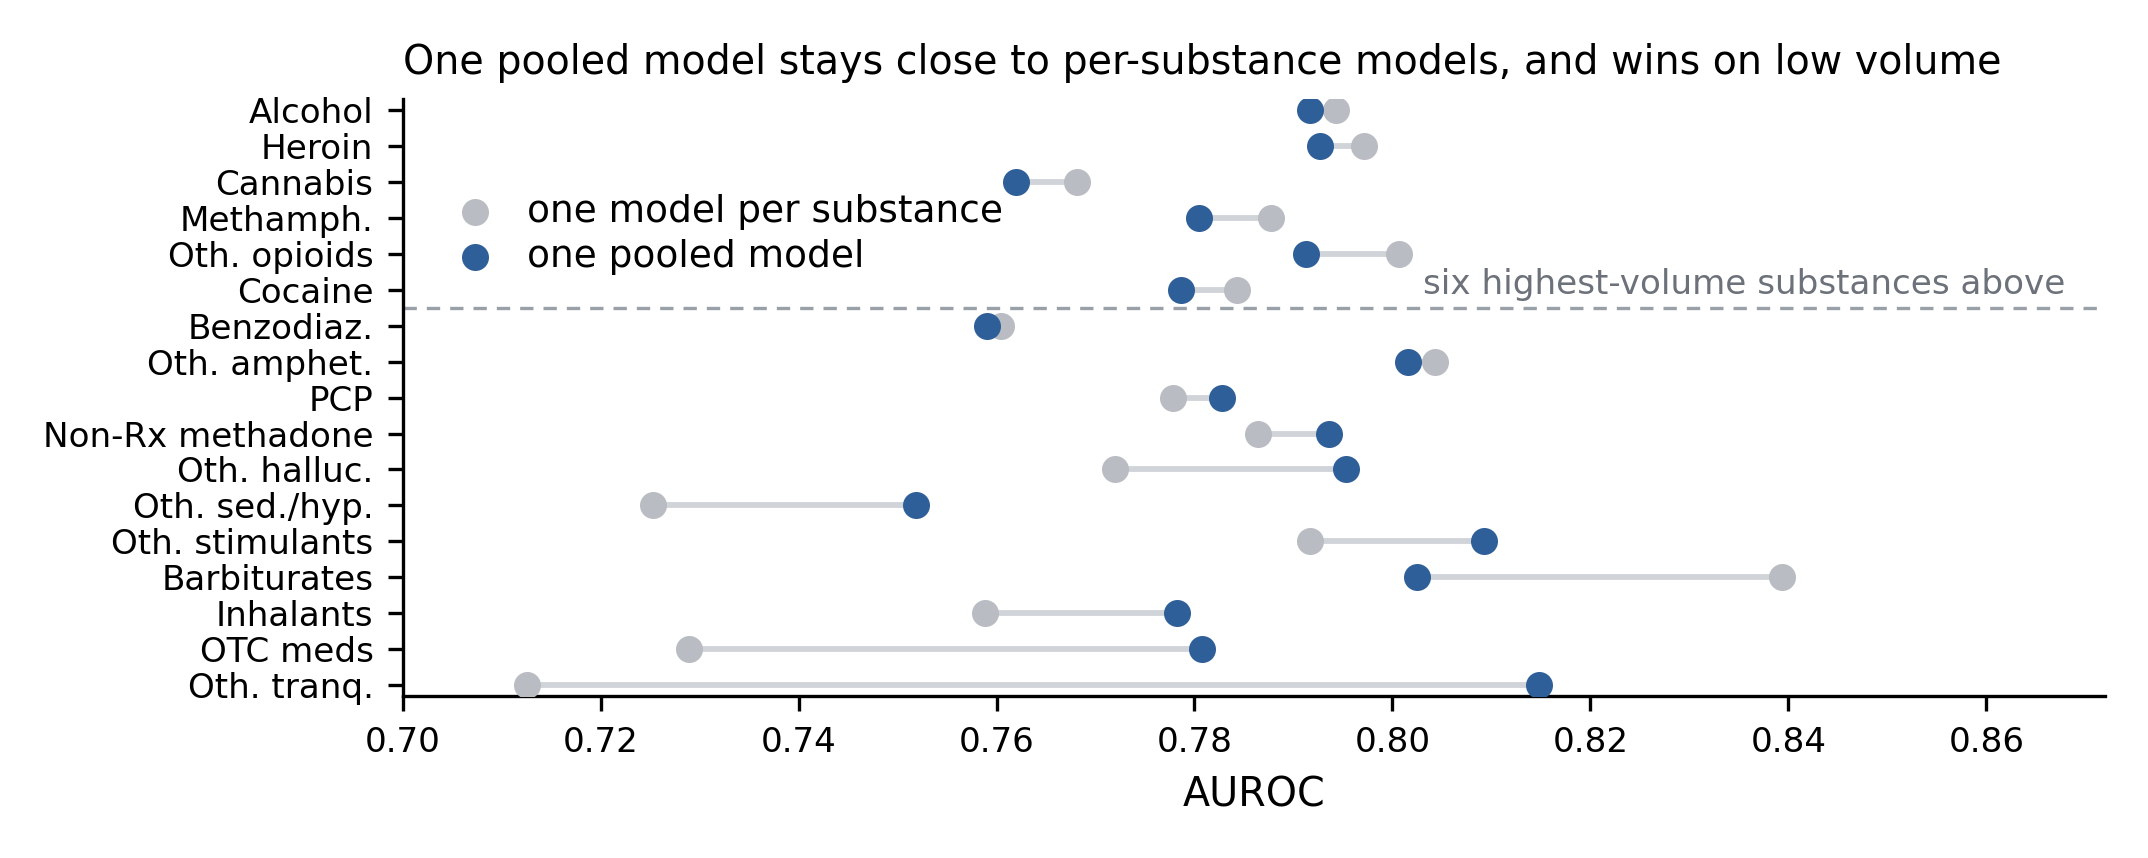
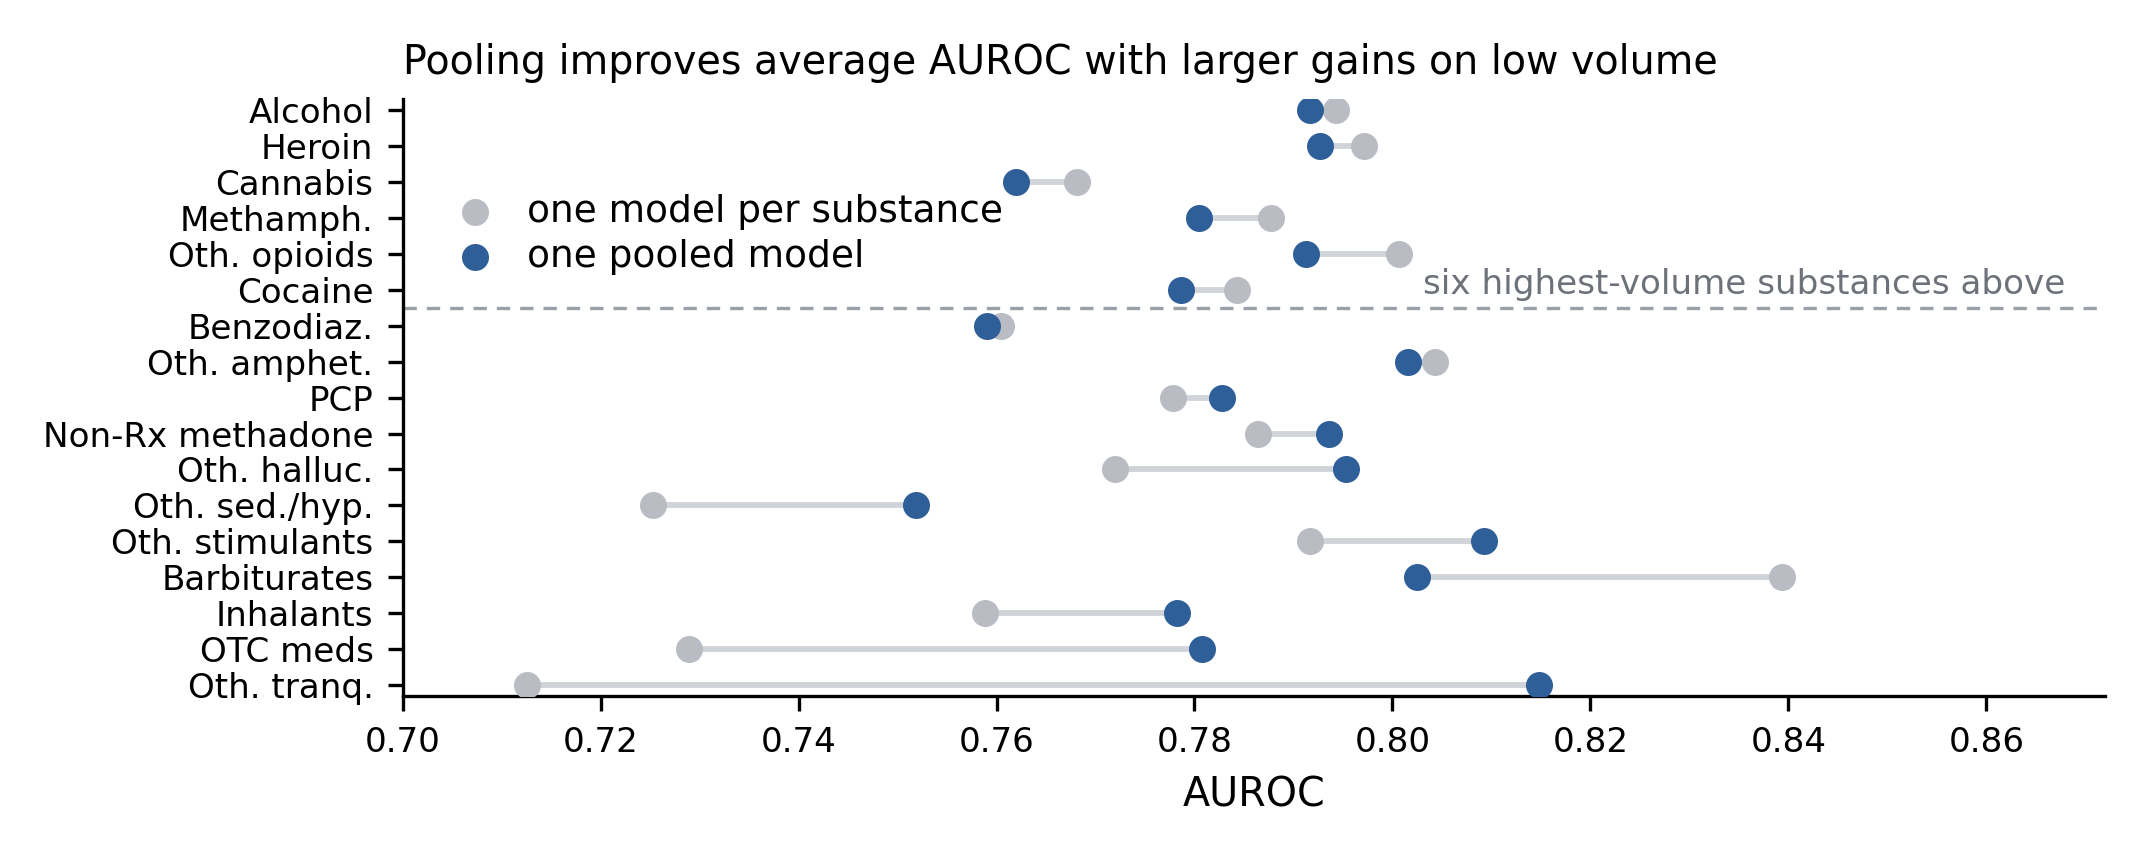
figure update

Changed region(s): [[0.1872, 0.0303, 0.9358, 0.0909]]

diff --git a/src/12_single_vs_pooled_figures.py b/src/12_single_vs_pooled_figures.py
@@ -46,7 +46,7 @@ ax.set_xlabel("AUROC"); ax.margins(y=0.02)
 ax.axhline(y[5] - 0.5, color="#9aa0a8", lw=0.8, ls=(0, (4, 3)), zorder=0)
 ax.text(0.868, y[5] - 0.32, "six highest-volume substances above", fontsize=8.2,
         color=META, va="bottom", ha="right")
-ax.set_title("One pooled model stays close to per-substance models, and wins on low volume",
+ax.set_title("Pooling improves average AUROC with larger gains on low volume",
              loc="left")
 ax.legend(loc="upper left", bbox_to_anchor=(0.005, 0.885), frameon=False,
           handletextpad=0.4, borderpad=0.2, labelspacing=0.25)
